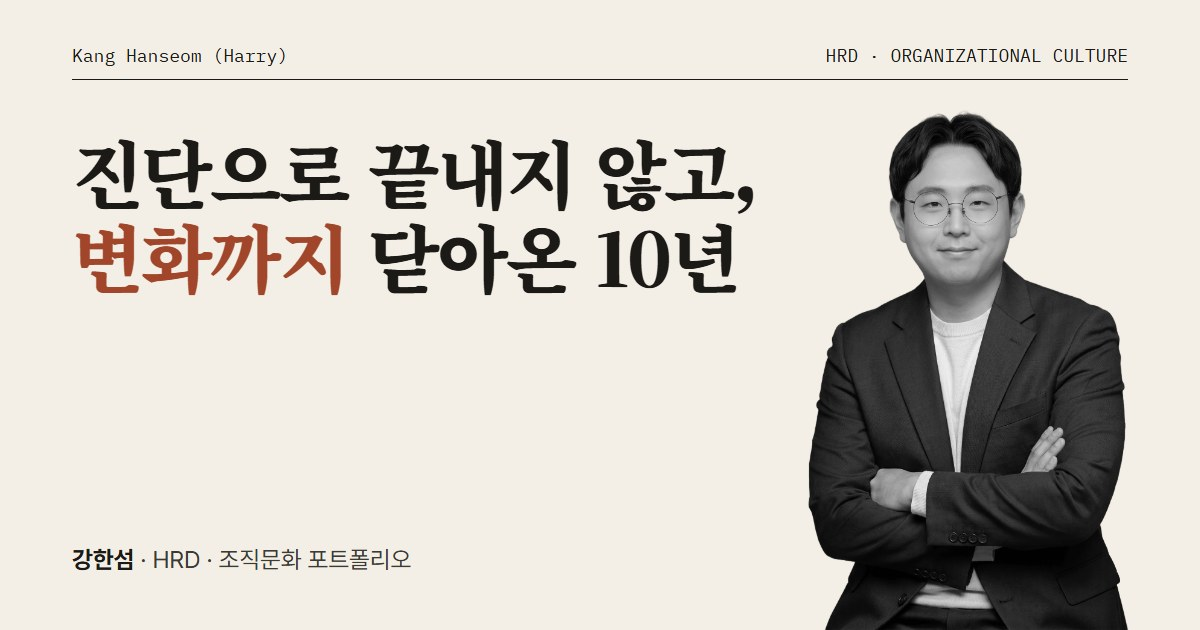
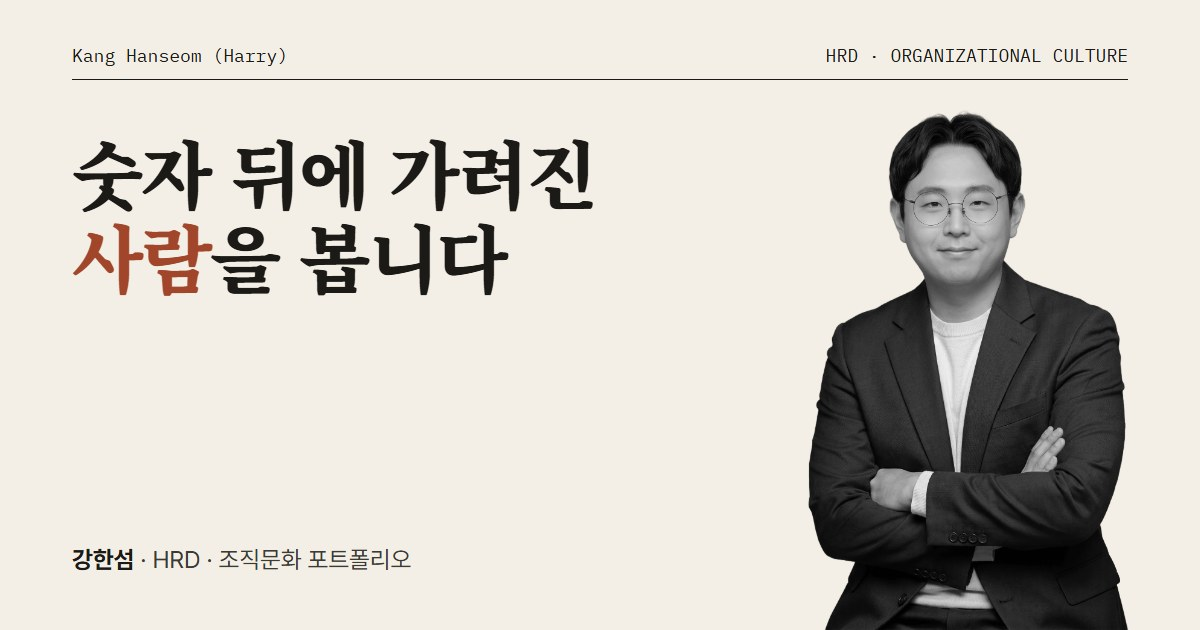
New headline, KPI project labels, revised working-cycle copy

Changed region(s): [[0.0617, 0.2111, 0.6475, 0.4825]]

diff --git a/experience.html b/experience.html
@@ -48,23 +48,23 @@
   <section class="section" aria-labelledby="s-kpi">
     <div class="section-title"><span class="num">01</span><h2 id="s-kpi">숫자로 보는 성과</h2></div>
     <div class="kpis">
-      <div><b>−1.75p</b><small>평가 상·하위 기관 간 격차 축소</small></div>
-      <div><b>−27%</b><small>동일분야 재지적 비율 감소</small></div>
-      <div><b>24개</b><small>요구도 분석 기반 신규 교육과정</small></div>
-      <div><b>100%</b><small>교육생 취업목표 달성 ('20–'22)</small></div>
+      <div><b>−1.75p</b><small>평가 상·하위 기관 간 격차 축소</small><span class="src">위생교육기관 평가사업</span></div>
+      <div><b>−27%</b><small>동일분야 재지적 비율 감소</small><span class="src">위생교육기관 평가사업</span></div>
+      <div><b>24개</b><small>요구도 분석 기반 신규 교육과정</small><span class="src">간호조무사 보수교육 종합지원사업</span></div>
+      <div><b>100%</b><small>기관 성과(교육생 취업목표) 3년 연속 달성 ('20–'22)</small><span class="src">바이오헬스 미래전문인력 양성사업</span></div>
     </div>
   </section>
 
   <!-- 일하는 방식 -->
   <section class="section" aria-labelledby="s-how">
-    <div class="section-title"><span class="num">02</span><h2 id="s-how">일하는 방식</h2><p>진단은 측정이 아니라 한 바퀴입니다</p></div>
+    <div class="section-title"><span class="num">02</span><h2 id="s-how">일하는 방식</h2><p>진단에서 끝나지 않고, 개선활동까지 수행합니다.</p></div>
     <div class="cycle">
-      <div><b>① 측정</b><span>전 구성원 정량 서베이와 계층별 심층 인터뷰</span></div>
-      <div><b>② 해석</b><span>계층·직군별로 나눠 평균에 가려진 편차 찾기</span></div>
-      <div><b>③ 과제 전환</b><span>Borich 요구도로 우선순위를 정해 실행과제로</span></div>
-      <div><b>④ 재측정</b><span>다음 회차 지표로 실제 변화가 났는지 검증</span></div>
+      <div><b>① 측정</b><span>정량 서베이, FGI 등 다양한 조사기법 활용</span></div>
+      <div><b>② 해석</b><span>숫자에 가려진 근본적 니즈/문제 파악</span></div>
+      <div><b>③ 솔루션 실행</b><span>근본적 니즈 충족/문제 해결을 위한 솔루션 탐색 및 실행</span></div>
+      <div><b>④ 재측정</b><span>재측정을 통한 솔루션 성과 진단</span></div>
     </div>
-    <p class="cycle-note">많은 진단이 ② 해석에서 멈춥니다. 저는 ④ 재측정까지 직접 해봤습니다.</p>
+    <p class="cycle-note">많은 컨설팅이 솔루션 제안에서 마무리되지만, 저는 솔루션 실행과 재측정 과정까지 경험했습니다.</p>
   </section>
 
   <!-- 대표 프로젝트 -->

diff --git a/index.html b/index.html
@@ -5,12 +5,12 @@
 <meta name="viewport" content="width=device-width, initial-scale=1">
 <meta name="robots" content="noindex, nofollow, noarchive">
 <title>강한섬 | HRD · 조직문화</title>
-<meta name="description" content="진단으로 끝내지 않고, 변화까지 닫아온 10년. HRD·조직문화 담당자 강한섬의 포트폴리오입니다.">
+<meta name="description" content="숫자 뒤에 가려진 사람을 봅니다. 조직의 당면과제를 파악하고 실질적인 개선을 실행하는 HRDer 강한섬의 포트폴리오입니다.">
 <link rel="icon" href="favicon.svg" type="image/svg+xml">
 <meta property="og:type" content="website">
 <meta property="og:site_name" content="Kang Hanseom (Harry)">
 <meta property="og:title" content="강한섬 | HRD · 조직문화">
-<meta property="og:description" content="진단으로 끝내지 않고, 변화까지 닫아온 10년. HRD·조직문화 담당자 강한섬의 포트폴리오입니다.">
+<meta property="og:description" content="숫자 뒤에 가려진 사람을 봅니다. 조직의 당면과제를 파악하고 실질적인 개선을 실행하는 HRDer 강한섬의 포트폴리오입니다.">
 <meta property="og:url" content="https://kanghansom.github.io/">
 <meta property="og:image" content="https://kanghansom.github.io/images/og.jpg">
 <meta property="og:image:width" content="1200">
@@ -34,9 +34,10 @@
 
   <div class="cover-body">
     <div>
-      <h1>진단으로<br>끝내지 않고,<br><em>변화까지</em><br>닫아온 10년</h1>
+      <h1>숫자 뒤에 가려진<br><em>사람</em>을 봅니다</h1>
 
-      <p class="who"><b>강한섬</b> · 한국보건복지인재원 품질인증사업팀 대리<br>조직문화전문가 · 평생교육사</p>
+      <p class="lede">조직의 당면과제를 파악하고, 실질적인 개선을 끊임없이 고민하고 실행하는 HRDer, 강한섬입니다.</p>
+      <p class="who">한국보건복지인재원 품질인증사업팀 대리 · 조직문화전문가 · 평생교육사</p>
 
       <ul class="keywords" aria-label="핵심 키워드">
         <li><span>01</span>조직문화 진단</li>

diff --git a/css/style.css b/css/style.css
@@ -102,7 +102,8 @@ img { display: block; max-width: 100%; }
 .cover-body > div { align-self: center; padding-bottom: clamp(32px, 5vw, 56px); }
 .cover h1 { font-family: var(--serif); font-size: clamp(38px, 5.4vw, 68px); line-height: 1.1; font-weight: 900; letter-spacing: -.035em; }
 .cover h1 em { font-style: normal; color: var(--accent); }
-.cover .who { margin-top: 22px; font-size: 15px; color: var(--ink-2); }
+.cover .lede { margin-top: 22px; font-size: 17px; line-height: 1.7; color: var(--ink-2); max-width: 30em; }
+.cover .who { margin-top: 10px; font-size: 13px; color: var(--muted); }
 .cover .who b { color: var(--ink); }
 
 .keywords { list-style: none; margin-top: 32px; display: flex; flex-wrap: wrap; gap: 8px; }
@@ -152,7 +153,8 @@ img { display: block; max-width: 100%; }
 .kpis div { padding: 22px 20px; border-right: 1px solid var(--line); }
 .kpis div:last-child { border-right: 0; }
 .kpis b { display: block; font-family: var(--sans); font-weight: 800; font-variant-numeric: tabular-nums; font-size: clamp(28px, 3.2vw, 38px); color: var(--navy); letter-spacing: -.02em; }
-.kpis small { font-size: 13px; color: var(--muted); }
+.kpis small { font-size: 13px; color: var(--muted); display: block; }
+.kpis .src { display: block; margin-top: 8px; padding-top: 8px; border-top: 1px dashed var(--line); font-size: 12px; font-weight: 600; color: var(--navy); }
 @media (max-width: 760px) { .kpis { grid-template-columns: 1fr 1fr; } .kpis div:nth-child(2) { border-right: 0; } .kpis div:nth-child(-n+2) { border-bottom: 1px solid var(--line); } }
 
 .cycle { display: grid; grid-template-columns: repeat(4, 1fr); gap: 4px; margin-top: 28px; }
